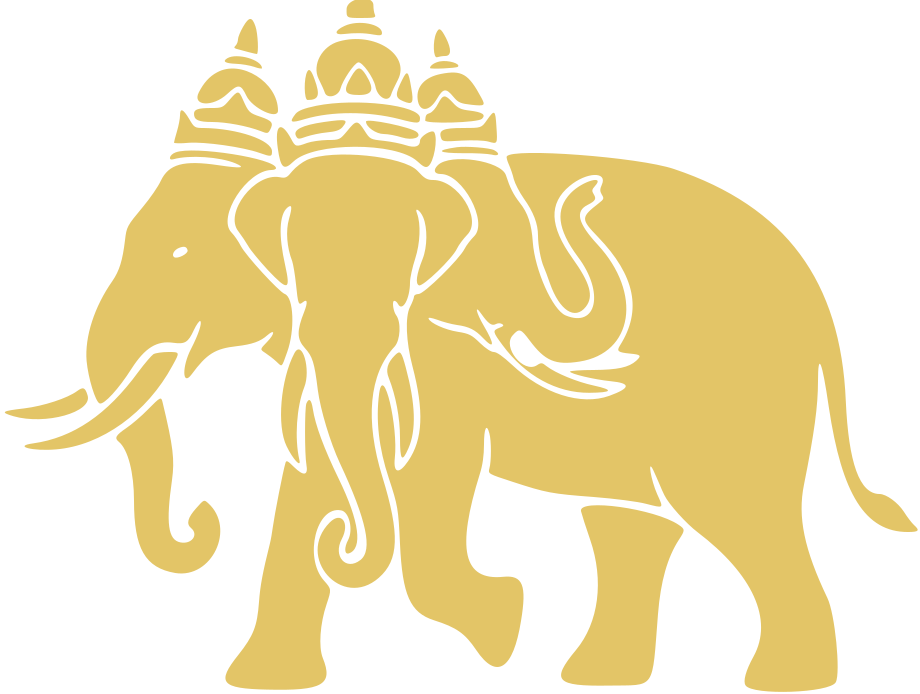
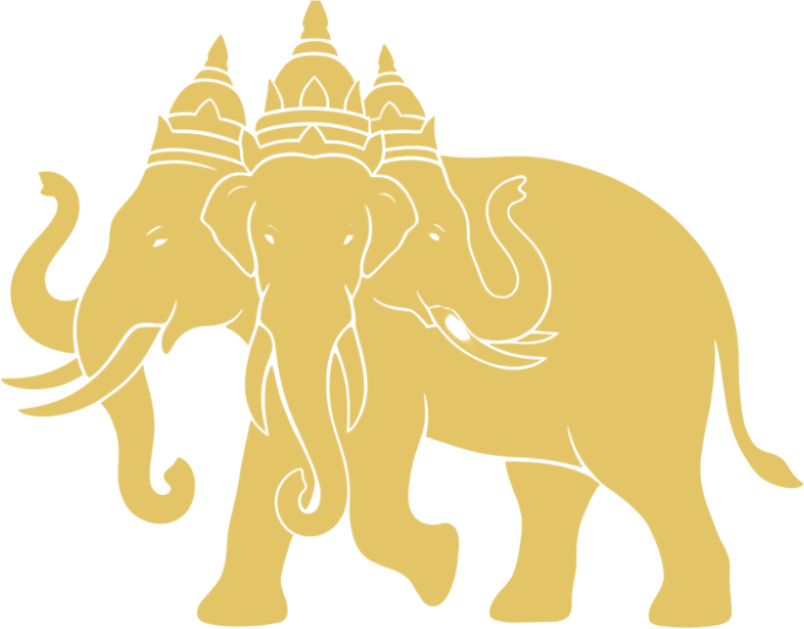
House mark: Simon's Erawan elephant (gold/green) replaces traced version; TOTW corner uses it
Old traced marks kept as elephant-*-traced-2026-10-10.png for rollback.

Claude-Session: https://claude.ai/code/session_01Sw1qTBXF2BuYVBaXME1Tvi

diff --git a/src/totw_graphic.py b/src/totw_graphic.py
@@ -20,7 +20,7 @@ Usage:
 Requires (relative to this script's location, i.e. the footballsiam-data repo root):
     assets/shirts/<club-slug>.png   — one per club, transparent background
     assets/branding/thai-league-1.png
-    assets/branding/football-siam.png
+    assets/branding/elephant-gold.png (house mark; football-siam.png is retired)
 
 Requires Playwright + a Chromium install. On this project's machines, Chromium
 lives at /opt/pw-browsers/chromium-*/chrome-linux/chrome (cloud sandbox) —
@@ -105,7 +105,8 @@ def build_html(selection: dict) -> str:
     players = {p["slot"]: p for p in selection["players"]}
     potw = selection["player_of_the_week"]
 
-    fs_logo = data_uri(os.path.join(BRANDING_DIR, "football-siam.png"))
+    # House mark: the gold Erawan elephant (Simon, 13 Oct 2026). football-siam.png is retired.
+    fs_logo = data_uri(os.path.join(BRANDING_DIR, "elephant-gold.png"))
     tl_logo = data_uri(os.path.join(BRANDING_DIR, "thai-league-1.png"))
 
     def render_card(slot):
